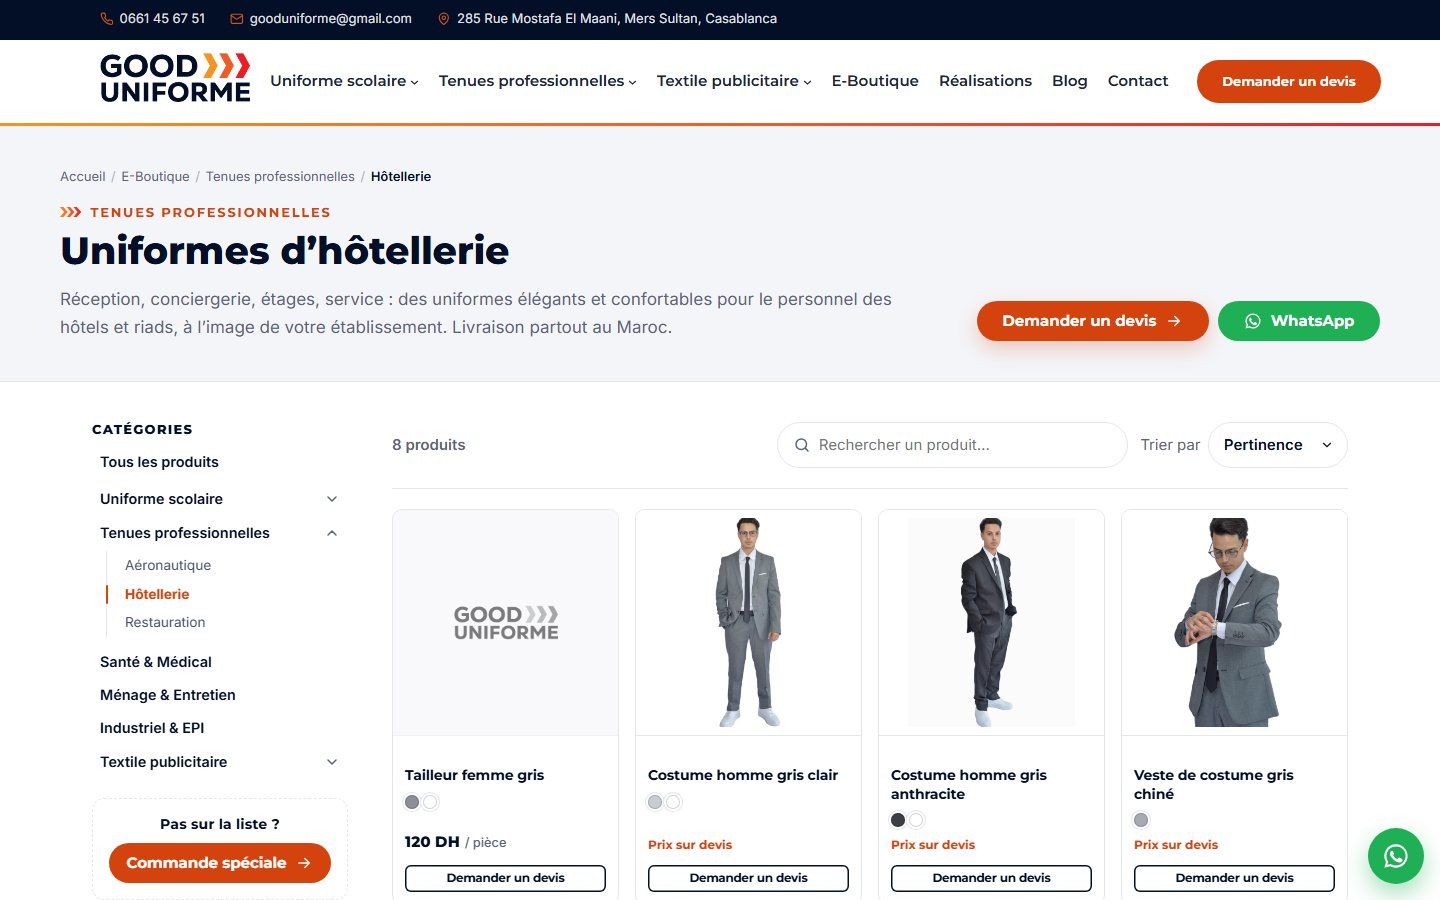
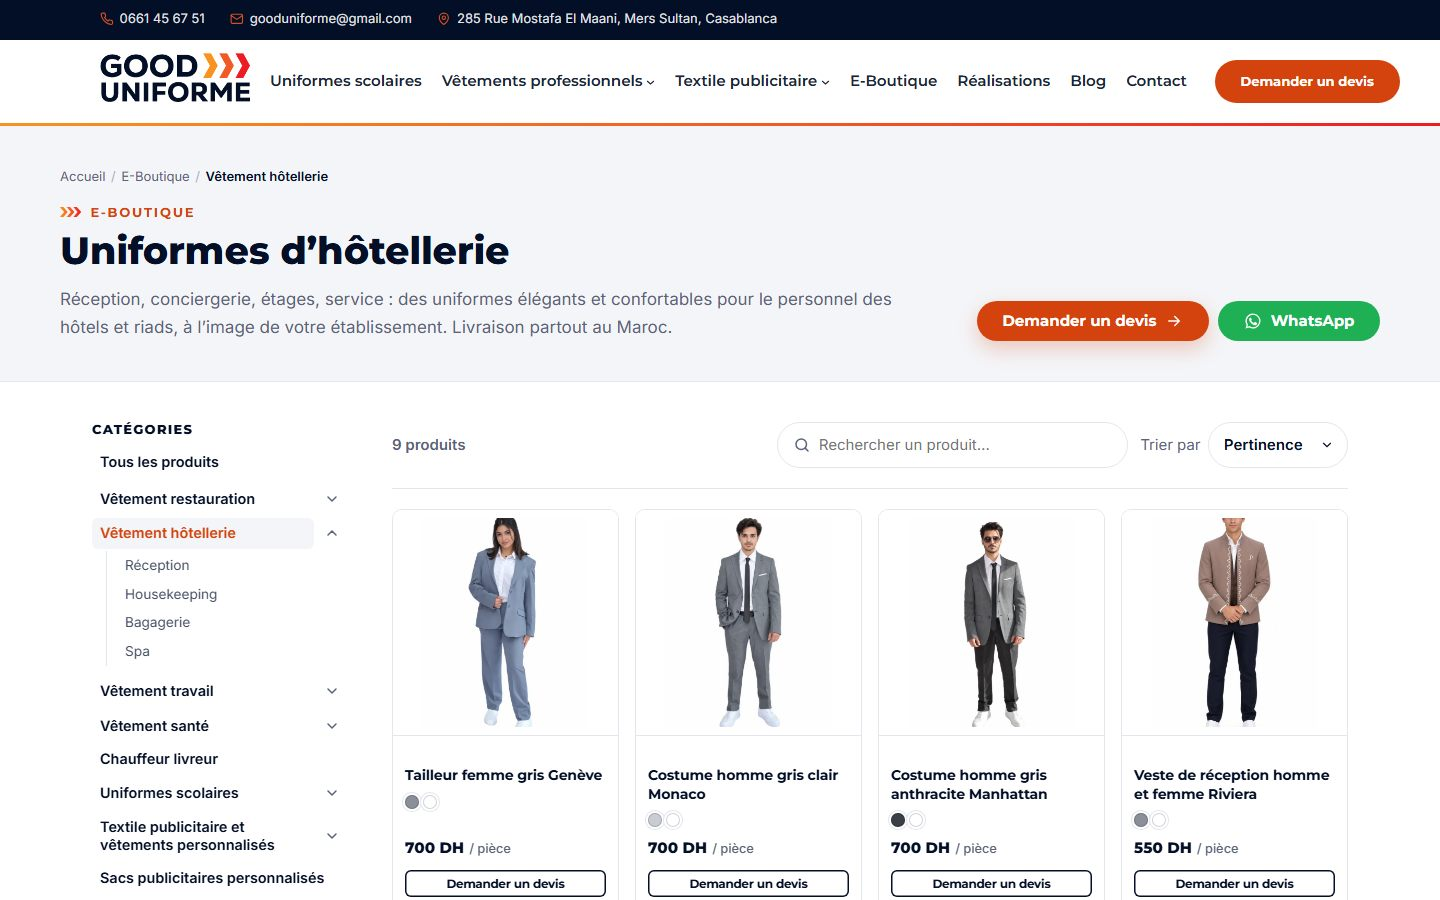
Good Uniforme : captures et textes du site en ligne

diff --git a/projets/gooduniforme.html b/projets/gooduniforme.html
@@ -136,7 +136,7 @@
         <div class="ba" id="ba" style="--pos:50%">
           <img class="ba-before" src="../assets/projets/gooduniforme/avant-boutique.jpg" alt="Avant : page E-boutique actuelle, sans produits" data-en-alt="Before: current e-shop page, with no products" />
           <div class="ba-after">
-            <img src="../assets/projets/gooduniforme/apres-boutique.jpg" alt="Après : nouvelle E-boutique avec catégories, recherche et 39 produits" data-en-alt="After: new e-shop with categories, search and 39 products" />
+            <img src="../assets/projets/gooduniforme/apres-boutique.jpg" alt="Après : nouvelle E-boutique avec catégories, recherche et 32 produits" data-en-alt="After: new e-shop with categories, search and 32 products" />
           </div>
           <span class="ba-tag ba-tag-l" data-en="Before">Avant</span><span class="ba-tag ba-tag-r" data-en="After">Après</span>
           <input type="range" min="0" max="100" value="50" aria-label="Comparer avant et après" data-en-aria-label="Compare before and after" />
@@ -146,7 +146,7 @@
         <div class="shots">
           <figure class="shot shot-wide">
             <img src="../assets/projets/gooduniforme/apres-accueil.jpg" alt="Nouvelle page d'accueil" data-en-alt="New home page" loading="lazy" />
-            <figcaption data-en="<b>Home</b> — visitors choose their trade from the very first screen (“I'm looking for an outfit for…”) and a quote is one click away, or on WhatsApp."><b>Accueil</b> — le visiteur choisit son métier dès le premier écran (« Je cherche une tenue pour… ») et le devis est accessible en un clic, ou sur WhatsApp.</figcaption>
+            <figcaption data-en="<b>Home</b> — a full-width hero with a quote one click away (or on WhatsApp), then visitors pick their trade among 13 sectors (“I'm looking for an outfit for…”), backed by Google reviews (4.9/5)."><b>Accueil</b> — un hero plein écran avec le devis en un clic (ou sur WhatsApp), puis le visiteur choisit son métier parmi 13 secteurs (« Je cherche une tenue pour… »), appuyé par les avis Google (4,9/5).</figcaption>
           </figure>
           <figure class="shot">
             <img src="../assets/projets/gooduniforme/apres-categorie.jpg" alt="Page catégorie Hôtellerie" data-en-alt="Hospitality category page" loading="lazy" />
@@ -154,11 +154,11 @@
           </figure>
           <figure class="shot">
             <img src="../assets/projets/gooduniforme/apres-produit.jpg" alt="Page produit Veste de maître d'hôtel" data-en-alt="Product page: maître d'hôtel jacket" loading="lazy" />
-            <figcaption data-en="<b>Product</b> — colors, customization and reassurance grouped around the quote button."><b>Produit</b> — coloris, personnalisation et réassurance regroupés autour du bouton de devis.</figcaption>
+            <figcaption data-en="<b>Product</b> — a configurator (color, technique, logo placement) and an “Add to quote” button: visitors build a quote for several items at once."><b>Produit</b> — un configurateur (coloris, technique, emplacement du logo) et un bouton « Ajouter au devis » : le visiteur compose un devis de plusieurs articles.</figcaption>
           </figure>
           <figure class="shot shot-wide">
             <img src="../assets/projets/gooduniforme/apres-realisations.jpg" alt="Page Nos réalisations" data-en-alt="Our work page" loading="lazy" />
-            <figcaption data-en="<b>Our work</b> — a gallery filterable by sector (57 projects) that serves as social proof."><b>Réalisations</b> — une galerie filtrable par secteur (57 réalisations) qui sert de preuve sociale.</figcaption>
+            <figcaption data-en="<b>Our work</b> — a gallery filterable by sector (68 projects) that serves as social proof."><b>Réalisations</b> — une galerie filtrable par secteur (68 réalisations) qui sert de preuve sociale.</figcaption>
           </figure>
         </div>
       </section>

diff --git a/script.js b/script.js
@@ -92,7 +92,7 @@ const projects = [
     gallery: [
       { src: "assets/projets/gooduniforme/apres-accueil.jpg", caption: "Nouvelle page d'accueil", pos: "top" },
       { src: "assets/projets/gooduniforme/apres-boutique.jpg", caption: "E-boutique — catalogue filtrable", pos: "top" },
-      { src: "assets/projets/gooduniforme/apres-produit.jpg", caption: "Page produit + devis", pos: "top" },
+      { src: "assets/projets/gooduniforme/apres-produit.jpg", caption: "Page produit — configurateur + devis", pos: "top" },
       { src: "assets/projets/gooduniforme/apres-categorie.jpg", caption: "Catégorie Hôtellerie", pos: "top" },
       { src: "assets/projets/gooduniforme/apres-realisations.jpg", caption: "Nos réalisations", pos: "top" },
       { src: "assets/projets/gooduniforme/avant-boutique.jpg", caption: "Avant — l'ancienne E-boutique, vide", pos: "top" }
